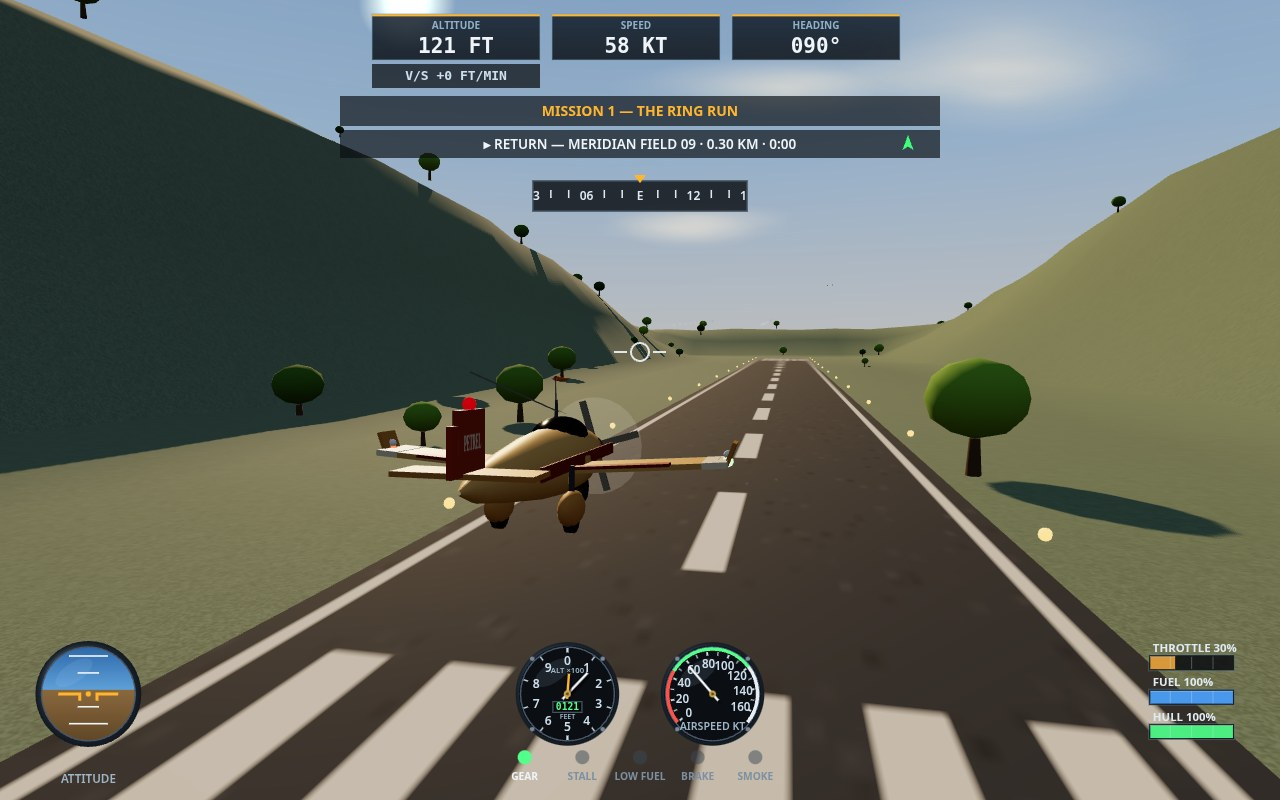
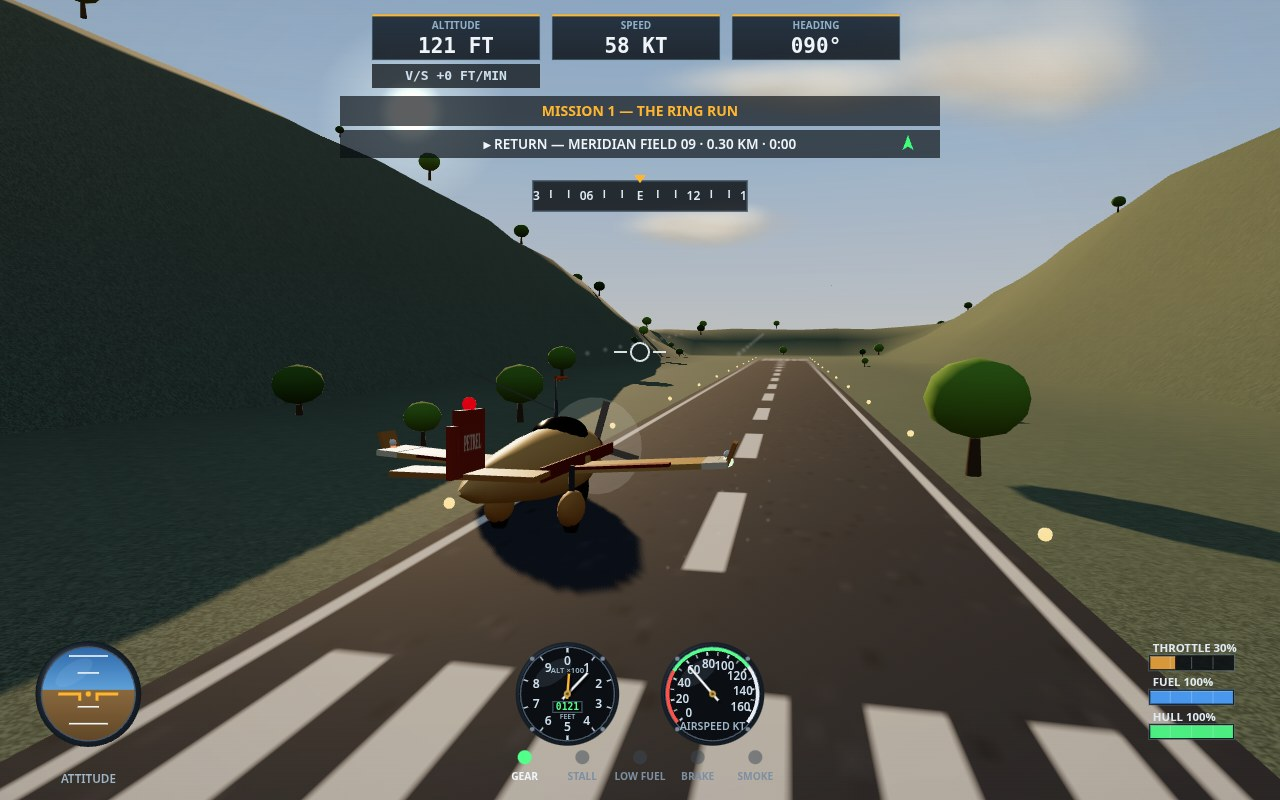
v15 light & grade pass: baked terrain light (neighbour-height AO + sun-facing warm/cool tint in the vertex colours, grain contrast up), a three-layer sun (hot core, amber halo, outer wash) on a lower 17-degree sun, living water (crawling bump field, envMapIntensity 1.45) and a fog retune that melts 

diff --git a/game/src/renderer-3d.js b/game/src/renderer-3d.js
@@ -14,7 +14,9 @@ import { createLifeWorld, updateLifeWorld } from './traffic-and-life.js';
 import { nextRing } from './missions.js';
 import { PARTICLE_KINDS } from './juice-particles.js';
 
-export const SUN_DIR = { x: 0.66, y: 0.34, z: -0.38 };
+// v15: the sun sits lower than it did (about 17 degrees up, not 24),
+// so the evening shadows stretch and the slopes model themselves.
+export const SUN_DIR = { x: 0.68, y: 0.24, z: -0.39 };
 const SUN_LEN = Math.hypot(SUN_DIR.x, SUN_DIR.y, SUN_DIR.z);
 const SUN = new THREE.Vector3(SUN_DIR.x / SUN_LEN, SUN_DIR.y / SUN_LEN, SUN_DIR.z / SUN_LEN);
 const HAZE = new THREE.Color(PALETTE.haze);
@@ -73,6 +75,75 @@ export function makeNoiseTexture(size = 256, base = 235, spread = 42) {
   const tex = new THREE.CanvasTexture(c);
   tex.wrapS = THREE.RepeatWrapping;
   tex.wrapT = THREE.RepeatWrapping;
+  tex.colorSpace = THREE.SRGBColorSpace;
+  return tex;
+}
+
+// A cloud puff with its lighting baked in (v15): overlapping blobs
+// drawn twice over — a warm-grey shaded belly low and wide, then
+// bright sunlit crowns above it — so a flat sprite still reads as a
+// lit volume instead of a white smear.
+export function makeCloudTexture() {
+  const c = document.createElement('canvas');
+  c.width = 256; c.height = 128;
+  const g = c.getContext('2d');
+  const rng = makeRng(777);
+  const blob = (x, y, r, inner, outer) => {
+    const grad = g.createRadialGradient(x, y, r * 0.1, x, y, r);
+    grad.addColorStop(0, inner);
+    grad.addColorStop(1, outer);
+    g.fillStyle = grad;
+    g.fillRect(x - r, y - r, r * 2, r * 2);
+  };
+  for (let i = 0; i < 9; i++) {
+    const x = 52 + rng() * 152;
+    const y = 66 + rng() * 22;
+    const r = 30 + rng() * 30;
+    blob(x, y, r, 'rgba(186,164,142,0.20)', 'rgba(186,164,142,0)');
+  }
+  for (let i = 0; i < 11; i++) {
+    const x = 46 + rng() * 164;
+    const y = 38 + rng() * 30;
+    const r = 24 + rng() * 30;
+    blob(x, y, r, 'rgba(255,250,238,0.30)', 'rgba(255,250,238,0)');
+  }
+  const tex = new THREE.CanvasTexture(c);
+  tex.colorSpace = THREE.SRGBColorSpace;
+  return tex;
+}
+
+// A smoke puff with a body (v15): several overlapping blobs build an
+// opaque-ish core with an irregular rim, then a destination-out
+// radial pass eats the square canvas edge away so no two puffs share
+// the same silhouette. Replaces the plain radial glow, which read
+// as bokeh dots.
+export function makePuffTexture() {
+  const c = document.createElement('canvas');
+  c.width = 128; c.height = 128;
+  const g = c.getContext('2d');
+  const rng = makeRng(31337);
+  const blob = (x, y, r, a) => {
+    const grad = g.createRadialGradient(x, y, r * 0.08, x, y, r);
+    grad.addColorStop(0, `rgba(255,253,249,${a})`);
+    grad.addColorStop(1, 'rgba(255,253,249,0)');
+    g.fillStyle = grad;
+    g.fillRect(x - r, y - r, r * 2, r * 2);
+  };
+  for (let i = 0; i < 10; i++) {
+    const a = rng() * Math.PI * 2;
+    const d = rng() * 26;
+    blob(64 + Math.cos(a) * d, 64 + Math.sin(a) * d, 17 + rng() * 15, 0.34);
+  }
+  blob(64, 64, 30, 0.5);
+  blob(58, 58, 20, 0.45);
+  g.globalCompositeOperation = 'destination-out';
+  const cut = g.createRadialGradient(64, 64, 40, 64, 64, 63);
+  cut.addColorStop(0, 'rgba(0,0,0,0)');
+  cut.addColorStop(1, 'rgba(0,0,0,1)');
+  g.fillStyle = cut;
+  g.fillRect(0, 0, 128, 128);
+  g.globalCompositeOperation = 'source-over';
+  const tex = new THREE.CanvasTexture(c);
   tex.colorSpace = THREE.SRGBColorSpace;
   return tex;
 }
@@ -222,6 +293,11 @@ function biomeColour(x, z, h, slope, out) {
   return grass;
 }
 
+// The two ends of the v15 baked-light grade: slopes the low sun
+// faces take a warm kiss, slopes turned away fall cool.
+const SUN_WARM = new THREE.Color('#ffbe78');
+const SHADE_COOL = new THREE.Color('#5f7ca6');
+
 export function buildTerrainMesh(detailTex) {
   const SEG = 190;
   const geo = new THREE.PlaneGeometry(TERRAIN_SIZE, TERRAIN_SIZE, SEG, SEG);
@@ -244,6 +320,25 @@ export function buildTerrainMesh(detailTex) {
     const h = pos.getY(i);
     const slope = 1 - normals.getY(i);
     biomeColour(x, z, h, slope, tmp);
+    // Baked light (v15). The directional sun alone leaves the smooth
+    // island domes reading flat, so two cheap terms are folded into
+    // the vertex colour: a fake ambient occlusion — ground whose
+    // neighbours stand higher than it sits in a hollow and darkens —
+    // and a sun-facing grade from the vertex normal, warm on the lit
+    // side, cool on the turned side. Land only: the sea floor keeps
+    // its chart colours, and the runway plateaus stay clean because
+    // their relief (and so their AO term) is already zero.
+    if (h > 0.4) {
+      const around = (visualHeight(x + 34, z) + visualHeight(x - 34, z)
+        + visualHeight(x, z + 34) + visualHeight(x, z - 34)) / 4;
+      const hollow = Math.max(0, around - h);
+      const ao = (1 - Math.min(0.32, hollow * 0.011)) * (0.95 + 0.05 * Math.min(1, h / 120));
+      const sunFace = normals.getX(i) * SUN.x + normals.getY(i) * SUN.y + normals.getZ(i) * SUN.z;
+      const lit = Math.max(0, sunFace);
+      tmp.multiplyScalar((0.84 + 0.28 * lit) * ao);
+      tmp.lerp(SUN_WARM, lit * lit * 0.15);
+      tmp.lerp(SHADE_COOL, Math.max(0, -sunFace) * 0.10 + (1 - lit) * 0.03);
+    }
     colours[i * 3] = tmp.r; colours[i * 3 + 1] = tmp.g; colours[i * 3 + 2] = tmp.b;
   }
   geo.setAttribute('color', new THREE.BufferAttribute(colours, 3));
@@ -261,8 +356,8 @@ export function buildWaterMesh(bumpTex) {
   const geo = new THREE.CircleGeometry(11000, 48);
   geo.rotateX(-Math.PI / 2);
   const mat = new THREE.MeshStandardMaterial({
-    color: hexColor(PALETTE.sea), roughness: 0.14, metalness: 0.05,
-    bumpMap: bumpTex, bumpScale: 0.9, envMapIntensity: 1.15,
+    color: hexColor(PALETTE.sea), roughness: 0.11, metalness: 0.05,
+    bumpMap: bumpTex, bumpScale: 0.9, envMapIntensity: 1.45,
   });
   const mesh = new THREE.Mesh(geo, mat);
   mesh.position.set(TERRAIN_CENTRE.x, 0, TERRAIN_CENTRE.z);
@@ -720,6 +815,11 @@ export function buildRings(group) {
   return rings;
 }
 
+// The next-ring green, deepened for the grade (v15): the palette's
+// mint at high emissive intensity blows out to near-white under
+// ACES, so the hoop itself burns a richer green and stays a colour.
+const NEXT_GREEN = '#17d95e';
+
 export function updateRings(rings, state, t) {
   const upcoming = nextRing(state);
   const pulse = (t * 0.65) % 1;
@@ -735,15 +835,17 @@ export function updateRings(rings, state, t) {
     slot.mesh.position.set(ring.x, ring.y, ring.z);
     slot.mesh.rotation.y = Math.PI - (ring.heading * Math.PI) / 180;
     const isNext = ring === upcoming;
-    slot.mesh.material.emissive.set(isNext ? PALETTE.ringNext : PALETTE.ring);
-    slot.mesh.material.emissiveIntensity = isNext ? 1.5 + Math.sin(t * 5) * 0.35 : 0.5;
+    slot.mesh.material.emissive.set(isNext ? NEXT_GREEN : PALETTE.ring);
+    // v15: driven harder, in the deeper green — saturation survives.
+    slot.mesh.material.emissiveIntensity = isNext ? 2.1 + Math.sin(t * 5) * 0.35 : 0.7;
+    if (isNext) slot.echo.material.color.set(NEXT_GREEN);
     slot.echo.visible = isNext;
     if (isNext) {
       slot.echo.position.copy(slot.mesh.position);
       slot.echo.rotation.copy(slot.mesh.rotation);
       const s = 1 + pulse * 0.4;
       slot.echo.scale.setScalar(s);
-      slot.echo.material.opacity = (1 - pulse) * 0.55;
+      slot.echo.material.opacity = (1 - pulse) * 0.72;
     }
   });
   for (let i = state.mission.rings.length; i < rings.length; i++) {
@@ -754,15 +856,15 @@ export function updateRings(rings, state, t) {
 
 const MAX_POINTS = 512;
 
-export function buildJuicePoints(group, glowTex) {
-  const makeSystem = (size, blending, opacity) => {
+export function buildJuicePoints(group, glowTex, puffTex) {
+  const makeSystem = (size, blending, opacity, map = glowTex) => {
     const geo = new THREE.BufferGeometry();
     const positions = new Float32Array(MAX_POINTS * 3).fill(-9999);
     geo.setAttribute('position', new THREE.BufferAttribute(positions, 3).setUsage(THREE.DynamicDrawUsage));
     const mat = new THREE.PointsMaterial({
       size, sizeAttenuation: true, transparent: true, opacity,
       blending, depthWrite: false, color: 0xffffff, vertexColors: true,
-      map: glowTex, alphaTest: 0.01,
+      map, alphaTest: 0.01,
     });
     const colours = new Float32Array(MAX_POINTS * 3);
     geo.setAttribute('color', new THREE.BufferAttribute(colours, 3).setUsage(THREE.DynamicDrawUsage));
@@ -775,8 +877,10 @@ export function buildJuicePoints(group, glowTex) {
   sparks.points.material.color.set(0xffcd5c);
   const soft = makeSystem(0.55, THREE.NormalBlending, 0.3);
   // Smoke gets its own system: the puffs are metres wide, not
-  // centimetres, and a point sprite's size is per-system.
-  const smoke = makeSystem(3.4, THREE.NormalBlending, 0.45);
+  // centimetres, and a point sprite's size is per-system. v15: it
+  // wears the dense puff texture (not the radial glow) and runs a
+  // touch larger and more opaque, so the ribbon reads as smoke.
+  const smoke = makeSystem(4.1, THREE.NormalBlending, 0.52, puffTex);
   return { sparks, soft, smoke };
 }
 
@@ -821,11 +925,14 @@ export function updateJuicePoints(systems, pool) {
 // ------------------------------------------------------------------
 // Clouds: soft sprites drifting over the chart.
 
-export function buildClouds(group, glowTex) {
+export function buildClouds(group) {
   const rng = makeRng(1357);
   const clouds = [];
+  // v15: the puffs wear the two-tone cloud texture — lit crowns over
+  // a shaded warm belly — and fly a size larger and softer than the
+  // old radial-glow smears.
   const mat = new THREE.SpriteMaterial({
-    map: glowTex, color: 0xfff4e0, transparent: true, opacity: 0.42, depthWrite: false, fog: false,
+    map: makeCloudTexture(), color: 0xfff4e0, transparent: true, opacity: 0.55, depthWrite: false, fog: false,
   });
   for (let i = 0; i < 34; i++) {
     const cluster = new THREE.Group();
@@ -833,7 +940,7 @@ export function buildClouds(group, glowTex) {
     for (let p = 0; p < puffs; p++) {
       const puff = new THREE.Sprite(mat);
       puff.position.set((rng() - 0.5) * 260, (rng() - 0.5) * 36, (rng() - 0.5) * 120);
-      puff.scale.set(300 + rng() * 320, 90 + rng() * 80, 1);
+      puff.scale.set(350 + rng() * 370, 105 + rng() * 95, 1);
       cluster.add(puff);
     }
     cluster.position.set(-3800 + rng() * 8400, 330 + rng() * 260, -3800 + rng() * 8400);
@@ -849,14 +956,18 @@ export function buildClouds(group, glowTex) {
 export function createWorld(canvas) {
   const renderer = new THREE.WebGLRenderer({ canvas, antialias: true, powerPreference: 'high-performance' });
   renderer.toneMapping = THREE.ACESFilmicToneMapping;
-  renderer.toneMappingExposure = 1.06;
+  renderer.toneMappingExposure = 1.1;
   renderer.outputColorSpace = THREE.SRGBColorSpace;
   renderer.shadowMap.enabled = true;
   renderer.shadowMap.type = THREE.PCFSoftShadowMap;
   renderer.setPixelRatio(1);
 
   const scene = new THREE.Scene();
-  scene.fog = new THREE.Fog(HAZE.clone(), 900, 7200);
+  // v15 fog: the haze is pulled toward the sky's horizon band and
+  // the far plane pushed out, so the sea melts into the sky instead
+  // of cutting against it at a hard line.
+  const fogColour = HAZE.clone().lerp(new THREE.Color(PALETTE.skyLow), 0.38);
+  scene.fog = new THREE.Fog(fogColour, 1050, 8600);
 
   const camera3 = new THREE.PerspectiveCamera(60, 1280 / 800, 0.5, 24000);
 
@@ -869,14 +980,23 @@ export function createWorld(canvas) {
   scene.add(dome);
   world.dome = dome;
 
-  const sunSprite = new THREE.Sprite(new THREE.SpriteMaterial({
-    map: makeGlowTexture('rgba(255,226,170,1)', 'rgba(255,190,110,0)'),
-    color: 0xffe2aa, transparent: true, opacity: 0.95,
-    blending: THREE.AdditiveBlending, depthWrite: false, fog: false,
-  }));
-  sunSprite.scale.setScalar(1150);
-  scene.add(sunSprite);
-  world.sunSprite = sunSprite;
+  // The sun as three nested glows (v15): a small hot core, an amber
+  // mid halo and a wide faint outer wash. The old single sprite read
+  // as a pale moon; layered, the disc has a centre that burns.
+  const sunGroup = new THREE.Group();
+  const sunLayer = (inner, outer, scale, opacity) => {
+    const s = new THREE.Sprite(new THREE.SpriteMaterial({
+      map: makeGlowTexture(inner, outer), color: 0xffffff, transparent: true, opacity,
+      blending: THREE.AdditiveBlending, depthWrite: false, fog: false,
+    }));
+    s.scale.setScalar(scale);
+    sunGroup.add(s);
+  };
+  sunLayer('rgba(255,196,110,1)', 'rgba(255,170,80,0)', 2400, 0.26);
+  sunLayer('rgba(255,202,118,1)', 'rgba(255,178,92,0)', 860, 0.62);
+  sunLayer('rgba(255,240,203,1)', 'rgba(255,232,178,0)', 350, 0.98);
+  scene.add(sunGroup);
+  world.sunSprite = sunGroup;
 
   const hemi = new THREE.HemisphereLight(0xbdd3f2, 0x8a7a56, 0.85);
   scene.add(hemi);
@@ -895,7 +1015,9 @@ export function createWorld(canvas) {
   scene.add(sun.target);
   world.sun = sun;
 
-  const detailTex = makeNoiseTexture(256, 238, 40);
+  // v15: the grain runs at nearly double the old contrast, so the
+  // ground's speckle survives the flight to the horizon.
+  const detailTex = makeNoiseTexture(256, 244, 76);
   detailTex.repeat.set(210, 210);
   const terrain = buildTerrainMesh(detailTex);
   scene.add(terrain);
@@ -903,6 +1025,7 @@ export function createWorld(canvas) {
   bumpTex.repeat.set(300, 300);
   const water = buildWaterMesh(bumpTex);
   scene.add(water);
+  world.waterBump = bumpTex;
 
   const dressing = new THREE.Group();
   scene.add(dressing);
@@ -917,8 +1040,12 @@ export function createWorld(canvas) {
   buildLighthouses(dressing, makeGlowTexture('rgba(255,215,150,1)', 'rgba(255,190,110,0)'));
   world.boats = buildBoats(dressing);
   world.rings = buildRings(dressing);
-  world.clouds = buildClouds(dressing, makeGlowTexture('rgba(255,248,235,1)', 'rgba(255,248,235,0)'));
-  world.juice = buildJuicePoints(dressing, makeGlowTexture('rgba(255,255,255,1)', 'rgba(255,255,255,0)'));
+  world.clouds = buildClouds(dressing);
+  world.juice = buildJuicePoints(
+    dressing,
+    makeGlowTexture('rgba(255,255,255,1)', 'rgba(255,255,255,0)'),
+    makePuffTexture(),
+  );
 
   world.petrel = buildPetrelAircraft();
   scene.add(world.petrel.group);
@@ -971,6 +1098,13 @@ export function syncWorld(world, game, cameraState, pool, t, dt) {
   world.sunSprite.position.copy(_pos).addScaledVector(SUN, 9800);
   world.sun.position.copy(_pos).addScaledVector(SUN, 900);
   world.sun.target.position.set(plane.x, plane.y, plane.z);
+
+  // The water breathes (v15): the bump field crawls slowly across
+  // the surface, so the glitter lane shimmers instead of sitting
+  // printed on a still pond.
+  if (world.waterBump) {
+    world.waterBump.offset.set((t * 0.006) % 1, (t * 0.0041) % 1);
+  }
 
   updatePetrelAircraft(world.petrel, plane, t);
   world.petrel.group.visible = game.cameraMode !== 'cockpit';

diff --git a/game/src/hud.js b/game/src/hud.js
@@ -4,6 +4,31 @@ import { PALETTE, WORLD, CONTROLS_TEXT } from './config.js';
 import { headingDegrees } from './flight-model.js';
 import { objectiveCue } from './missions.js';
 
+// The v15 grade: a photographic vignette and warm wash laid over
+// the 3D frame BEFORE anything else is drawn, so it darkens only
+// the world's corners — every panel, gauge and line of HUD text is
+// painted on top of it and keeps its full contrast. The centre of
+// the frame (where the aeroplane flies) stays untouched.
+export function drawGradeVignette(ctx, width, height) {
+  const cx = width / 2;
+  const cy = height * 0.46;
+  const grad = ctx.createRadialGradient(
+    cx, cy, Math.min(width, height) * 0.52,
+    cx, cy, Math.hypot(width, height) * 0.62,
+  );
+  grad.addColorStop(0, 'rgba(24,14,6,0)');
+  grad.addColorStop(0.72, 'rgba(24,14,6,0.05)');
+  grad.addColorStop(1, 'rgba(24,14,6,0.16)');
+  ctx.fillStyle = grad;
+  ctx.fillRect(0, 0, width, height);
+  const wash = ctx.createLinearGradient(0, 0, 0, height);
+  wash.addColorStop(0, 'rgba(255,176,92,0.045)');
+  wash.addColorStop(0.5, 'rgba(255,176,92,0)');
+  wash.addColorStop(1, 'rgba(30,40,70,0.03)');
+  ctx.fillStyle = wash;
+  ctx.fillRect(0, 0, width, height);
+}
+
 export function drawHudDigits(ctx, plane, width, height) {
   const feet = Math.max(0, Math.round(plane.y * 3.281));
   const knots = Math.round(plane.speed * 1.944);

diff --git a/game/src/main.js b/game/src/main.js
@@ -10,7 +10,7 @@ import { createCamera, chaseCamera, cockpitCamera, createWorld, syncWorld } from
 import { drawCockpitFrame } from './aircraft-art.js';
 import { drawInstrumentPanel } from './instruments.js';
 import {
-  drawHudDigits, drawMissionBanner, drawCentreMarker, drawEventFlash,
+  drawGradeVignette, drawHudDigits, drawMissionBanner, drawCentreMarker, drawEventFlash,
   drawTitleScreen, drawBriefing, drawSortieEnd,
 } from './hud.js';
 import { createAudio, startAudio, updateAudio, playGateChime, playTouchdownBell, playStallWarning } from './audio.js';
@@ -148,6 +148,8 @@ function render(t, dt) {
   plane.smokeOn = game.smokeOn; // the panel's SMOKE lamp reads the plane
   syncWorld(world, game, camera, juicePool, t, dt);
   ctx.clearRect(0, 0, width, height);
+  // The grade goes down first: it grades the world, never the panel.
+  drawGradeVignette(ctx, width, height);
   if (game.cameraMode === 'cockpit') {
     drawCockpitFrame(ctx, width, height, plane);
   }

diff --git a/game/src/juice-particles.js b/game/src/juice-particles.js
@@ -10,7 +10,7 @@ const KIND_STYLE = [
   { colour: '255,205,92', size: 2.6, drag: 2.4, gravity: -1.2 },
   { colour: '244,248,252', size: 3.4, drag: 1.1, gravity: 0.35 },
   { colour: '219,186,138', size: 4.6, drag: 1.6, gravity: 0.9 },
-  { colour: '248,250,252', size: 6.5, drag: 0.32, gravity: 0.3 },
+  { colour: '248,250,252', size: 7.6, drag: 0.32, gravity: 0.3 },
 ];
 
 export function createParticlePool() {
@@ -117,7 +117,7 @@ export function seedShotJuice(pool, name, plane, ring) {
   if (name === 'cover' && ring) {
     spawnRingBurst(pool, ring.x, ring.y, ring.z, 0.85);
     layTrailBehind(pool, plane, 26);
-    laySmokeBehind(pool, plane, 34);
+    laySmokeBehind(pool, plane, 46);
   } else if (name === 'cargo') {
     layTrailBehind(pool, plane, 22);
     const fx = Math.sin(plane.heading);
